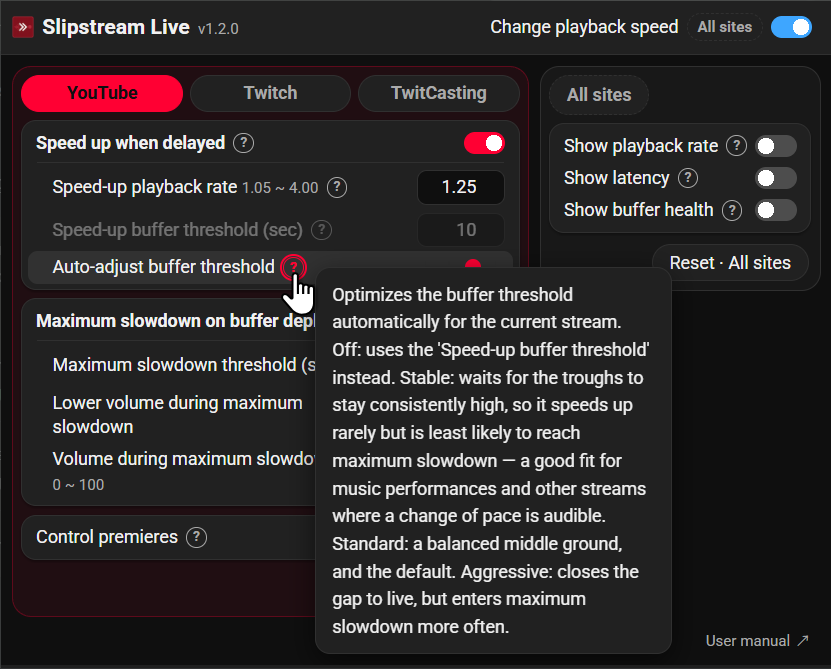
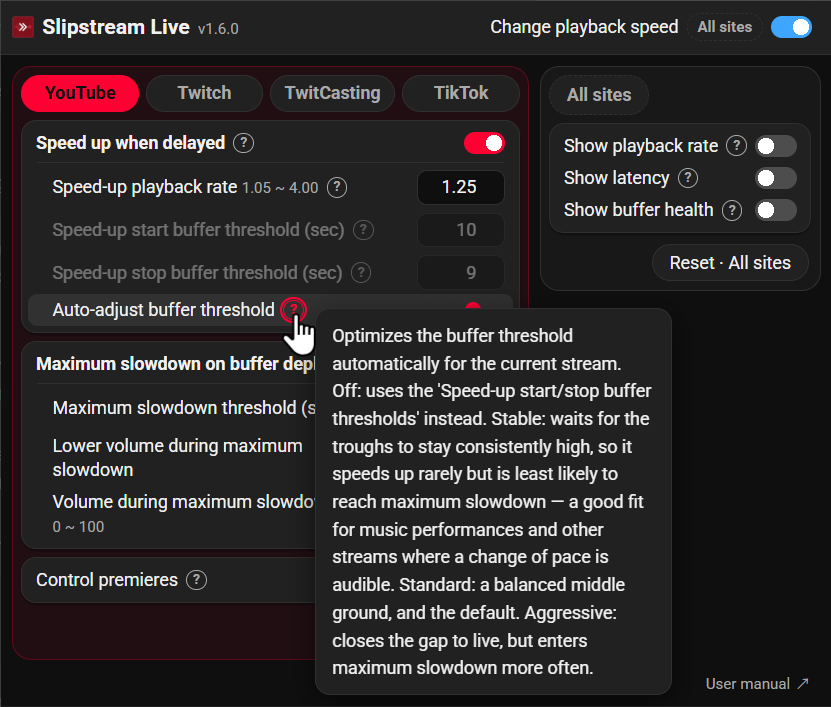
取扱説明書の画像を最新のものに差し替えた (#32)
取扱説明書の画像を最新のものに差し替えた

diff --git a/docs/manual.ja.html b/docs/manual.ja.html
@@ -115,7 +115,7 @@
         <h3>3.1 Chrome / Edge / Brave など Chromium 系ブラウザ</h3>
         <p><a href="https://chromewebstore.google.com/detail/ecbonmgnfkfkfempebmojjpkgbekkjdf" target="_blank" rel="noopener">Chrome ウェブストア</a>からインストールします。</p>
         <figure class="fig-wide">
-            <img src="images/Fig_1-chrome-ja.png" alt="Chrome ウェブストアの Slipstream Live のページ" loading="lazy" width="1280" height="770">
+            <img src="images/Fig_1-chrome-ja.png" alt="Chrome ウェブストアの Slipstream Live のページ" loading="lazy" width="936" height="876">
             <figcaption><b>図 1a</b> <span class="ui">「Chrome に追加」</span>をクリックします。</figcaption>
         </figure>
         <p>インストール後、ツールバーのパズルピースのアイコンから Slipstream Live を固定しておくと、アイコンが常に表示されて便利です。</p>
@@ -127,7 +127,7 @@
         <h3>3.2 Firefox</h3>
         <p><a href="https://addons.mozilla.org/firefox/addon/slipstream-live/" target="_blank" rel="noopener">Firefox アドオン</a>からインストールします。</p>
         <figure class="fig-wide">
-            <img src="images/Fig_1-firefox-ja.png" alt="Firefox アドオンの Slipstream Live のページ" loading="lazy" width="1280" height="630">
+            <img src="images/Fig_1-firefox-ja.png" alt="Firefox アドオンの Slipstream Live のページ" loading="lazy" width="1168" height="928">
             <figcaption><b>図 1b</b> <span class="ui">「Firefox へ追加」</span>をクリックします。Android 版 Firefox（142.0 以降）でも同じページから導入できます。</figcaption>
         </figure>
         <figure class="fig-crop">
@@ -174,7 +174,7 @@
         <h2><span class="num">4</span> 各部の名称（設定画面）</h2>
         <p>ツールバーのアイコンをクリックすると設定画面が開きます。同じ画面は、ブラウザの拡張機能管理画面から「オプション」として独立したタブで開くこともできます。</p>
         <figure class="fig-wide">
-            <img src="images/Fig_5-ja.png" alt="Slipstream Live の設定画面" loading="lazy" width="740" height="629">
+            <img src="images/Fig_5-ja.png" alt="Slipstream Live の設定画面" loading="lazy" width="769" height="670">
             <figcaption><b>図 5</b> 既定値の状態の設定画面。以下の表の番号はこの図に対応します。</figcaption>
         </figure>
         <div class="table-scroll">
@@ -199,11 +199,11 @@
             <li>TikTok タブを選んでいるときだけ、<span class="ui">「Chrome での速度変更を有効にする」</span>のスイッチがパネル下部に表示されます（<a href="#tiktok">6 章「Chrome の TikTok LIVE」</a>を参照）。</li>
         </ul>
         <figure class="fig-wide">
-            <img src="images/Fig_3-ja.png" alt="Twitch タブを選択した設定画面" loading="lazy" width="740" height="714">
+            <img src="images/Fig_3-ja.png" alt="Twitch タブを選択した設定画面" loading="lazy" width="769" height="808">
             <figcaption><b>図 3</b> サイトタブを切り替えるとパネル全体が入れ替わります。Twitch タブには既定値についての注釈が加わり、アクセントカラーもサイトごとに変化します。</figcaption>
         </figure>
         <figure class="fig-wide">
-            <img src="images/Fig_6-ja.png" alt="? ボタンから開いたヘルプの吹き出し" loading="lazy" width="740" height="629">
+            <img src="images/Fig_6-ja.png" alt="? ボタンから開いたヘルプの吹き出し" loading="lazy" width="769" height="670">
             <figcaption><b>図 6</b> <span class="ui">?</span> をクリックすると、その項目の説明が表示されます。</figcaption>
         </figure>
     </section>

diff --git a/docs/manual.html b/docs/manual.html
@@ -115,7 +115,7 @@
         <h3>3.1 Chrome / Edge / Brave / other Chromium browsers</h3>
         <p>Install from the <a href="https://chromewebstore.google.com/detail/ecbonmgnfkfkfempebmojjpkgbekkjdf" target="_blank" rel="noopener">Chrome Web Store</a>.</p>
         <figure class="fig-wide">
-            <img src="images/Fig_1-chrome-en.png" alt="The Slipstream Live listing on the Chrome Web Store" loading="lazy" width="1280" height="770">
+            <img src="images/Fig_1-chrome-en.png" alt="The Slipstream Live listing on the Chrome Web Store" loading="lazy" width="936" height="876">
             <figcaption><b>Fig. 1a</b> Click <span class="ui">Add to Chrome</span>.</figcaption>
         </figure>
         <p>After installing, open the puzzle-piece menu in the toolbar and pin Slipstream Live so its icon is always visible.</p>
@@ -127,7 +127,7 @@
         <h3>3.2 Firefox</h3>
         <p>Install from <a href="https://addons.mozilla.org/firefox/addon/slipstream-live/" target="_blank" rel="noopener">Firefox Add-ons</a>.</p>
         <figure class="fig-wide">
-            <img src="images/Fig_1-firefox-en.png" alt="The Slipstream Live listing on Firefox Add-ons" loading="lazy" width="1280" height="630">
+            <img src="images/Fig_1-firefox-en.png" alt="The Slipstream Live listing on Firefox Add-ons" loading="lazy" width="1191" height="928">
             <figcaption><b>Fig. 1b</b> Click <span class="ui">Add to Firefox</span>. The same page works on Firefox for Android (v142.0 or later).</figcaption>
         </figure>
         <figure class="fig-crop">
@@ -174,7 +174,7 @@
         <h2><span class="num">4</span> Parts of the settings screen</h2>
         <p>Click the toolbar icon to open the settings popup. The same screen can also be opened as a full tab from your browser's extensions management page (Options).</p>
         <figure class="fig-wide">
-            <img src="images/Fig_5-en.png" alt="The Slipstream Live settings screen" loading="lazy" width="831" height="669">
+            <img src="images/Fig_5-en.png" alt="The Slipstream Live settings screen" loading="lazy" width="831" height="707">
             <figcaption><b>Fig. 5</b> The settings screen, shown with its default values. The numbers in the table below refer to this figure.</figcaption>
         </figure>
         <div class="table-scroll">
@@ -199,11 +199,11 @@
             <li>On the TikTok tab only, an <span class="ui">Allow speed changes in Chrome</span> switch appears at the bottom of the panel (see <a href="#tiktok">“TikTok LIVE on Chrome”</a> in section 6).</li>
         </ul>
         <figure class="fig-wide">
-            <img src="images/Fig_3-en.png" alt="The settings screen with the Twitch tab selected" loading="lazy" width="831" height="750">
+            <img src="images/Fig_3-en.png" alt="The settings screen with the Twitch tab selected" loading="lazy" width="831" height="846">
             <figcaption><b>Fig. 3</b> Selecting a site tab switches the whole panel. The Twitch tab carries an additional note about its default threshold, and the accent colour changes with the site.</figcaption>
         </figure>
         <figure class="fig-wide">
-            <img src="images/Fig_6-en.png" alt="A help bubble opened from a question-mark button" loading="lazy" width="831" height="669">
+            <img src="images/Fig_6-en.png" alt="A help bubble opened from a question-mark button" loading="lazy" width="831" height="707">
             <figcaption><b>Fig. 6</b> Clicking <span class="ui">?</span> explains that row in plain language.</figcaption>
         </figure>
     </section>
